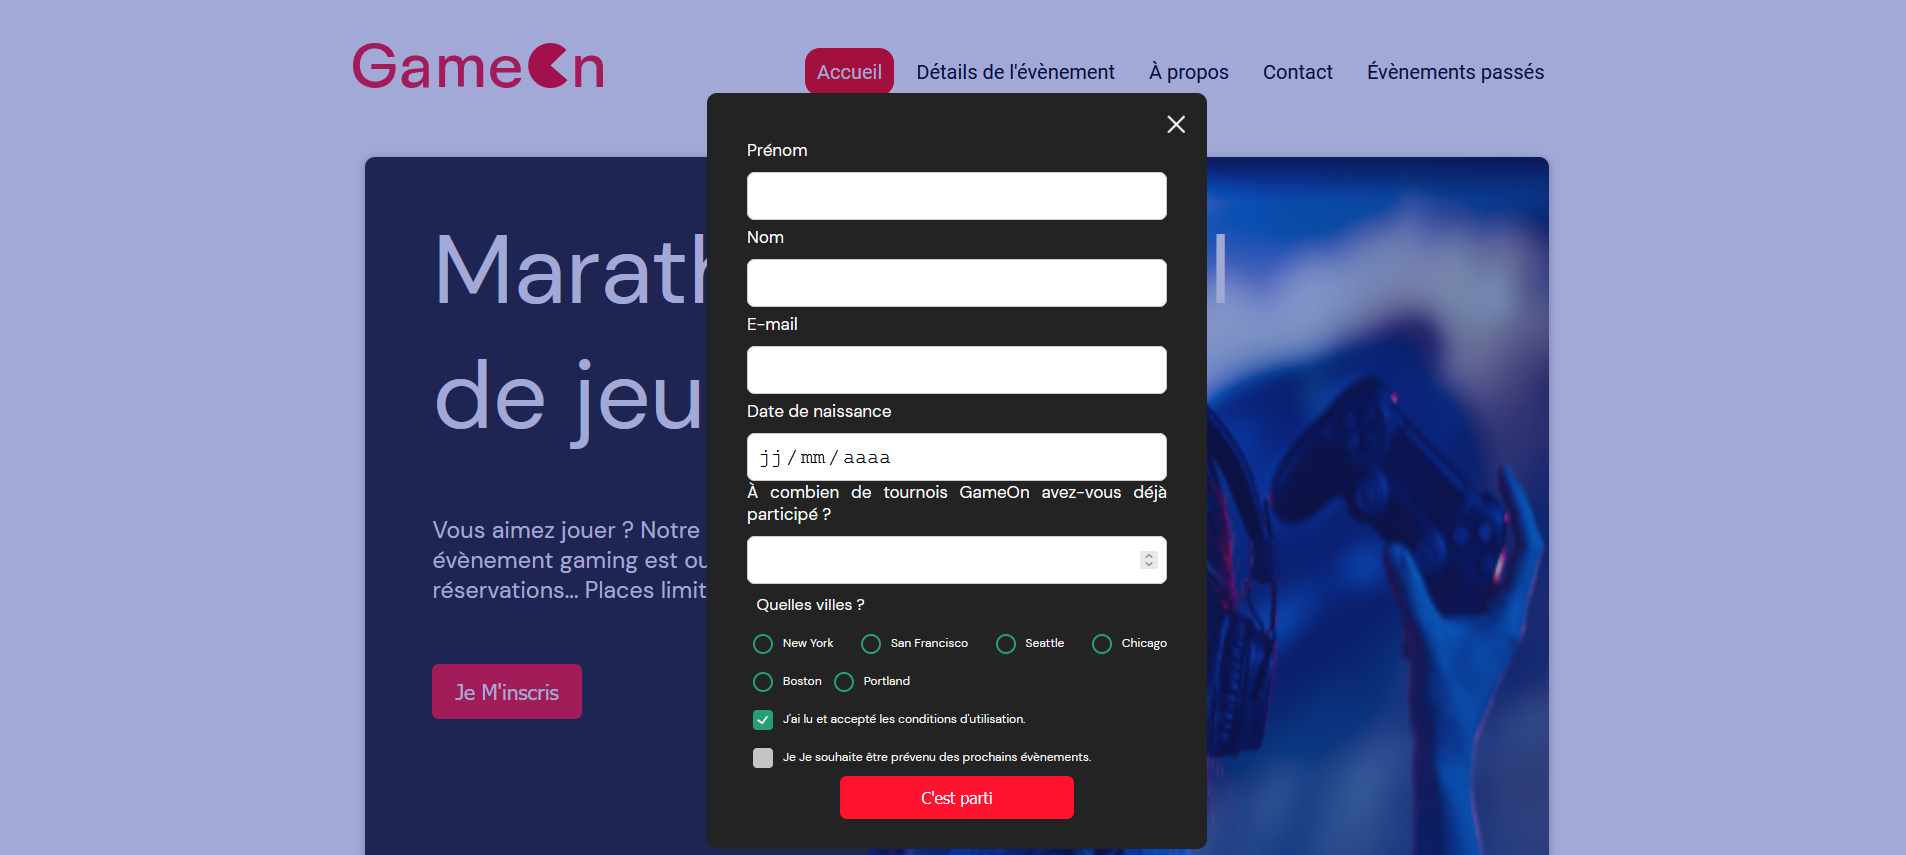
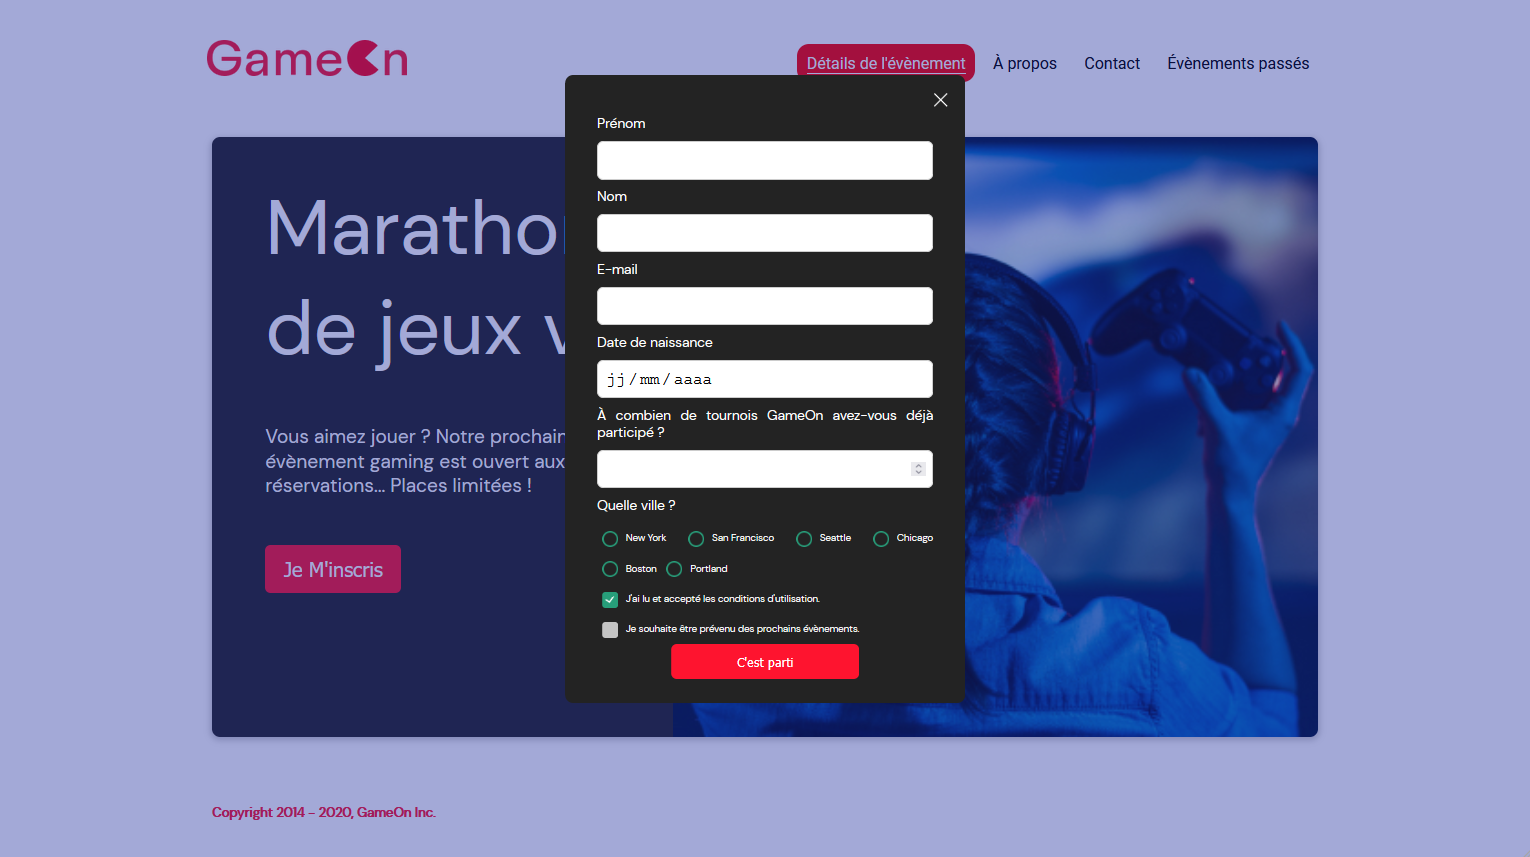
Fix OpenClassrooms-Student-Center#5

diff --git a/css/modal.css b/css/modal.css
@@ -69,9 +69,10 @@ p {
 
 .topnav .icon {
   display: none;
+  color: red;
 }
 
-@media screen and (max-width: 768px) {
+/* @media screen and (max-width: 768px) {
   .topnav.responsive {
     position: relative;
   }
@@ -96,7 +97,7 @@ p {
     float: right;
     display: block;
   }
-}
+} */
 
 /* @media screen and (max-width: 540px) {
   .topnav a {
@@ -484,7 +485,13 @@ footer {
   padding-right: 2vw;
   margin: 0 20px;
 }
-@media screen and (max-width: 800px) {
+@media screen and (max-width: 1000px) {
+  .header-logo img {
+    margin-left: 35px;
+  }
+  .main-navbar .menu {
+    margin-right: 50px;
+  }
   .hero-section {
     display: block;
     box-shadow: unset;
@@ -521,6 +528,50 @@ footer {
     margin-top: 50px;
     text-align: center;
   }
+  .topnav.responsive {
+    position: relative;
+  }
+  .topnav.responsive .icon {
+    position: absolute;
+    right: 0;
+    top: 0;
+  }
+  .topnav.responsive a {
+    float: none;
+    display: block;
+    text-align: left;
+  }
+  .topnav a {
+    display: none;
+  }
+  .topnav a.icon {
+    float: right;
+    display: block;
+  }
+}
+
+@media screen and (max-width: 800px) {
+  .header-logo img {
+    width: 150px;
+    margin-top: 15px;
+    margin-left: 35px;
+  }
+  .hero-content {
+    min-width: 0;
+  }
+  .hero-headline {
+    font-size: 42px;
+  }
+  .hero-text {
+    font-size: 13px;
+  }
+  .bground {
+    background-color: transparent;
+  }
+  .content {
+    margin-top: 80px;
+    max-width: 100vw;
+  }
 }
 
 .formData p {
@@ -545,6 +596,13 @@ footer {
   height: 100%;
   font-size: 36px;
   font-weight: 400;
+}
+
+@media screen and (max-width: 500px) {
+  .main-navbar .menu {
+    width: 85vw;
+    margin-right: 15px;
+  }
 }
 
 @keyframes modalopen {

diff --git a/index.html b/index.html
@@ -16,10 +16,10 @@
         <img alt="logo" src="img/Logo.png">
       </div>
       <div class="main-navbar">
-        <a href="#" class="active">Détails de l'évènement</a>
-        <a href="#">À propos</a>
-        <a href="#">Contact</a>
-        <a href="#">Évènements passés</a>
+        <a href="#" class="active menu">Détails de l'évènement</a>
+        <a href="#" class="menu">À propos</a>
+        <a href="#" class="menu">Contact</a>
+        <a href="#" class="menu">Évènements passés</a>
         <a href="javascript:void(0);" class="icon" onclick="editNav()">
           <i class="fa fa-bars"></i>
         </a>

diff --git a/README.md b/README.md
@@ -1,7 +1,7 @@
 <br>
 <p align="center">
   <a href="https://github.com/Laury-THIALLIER/LauryTHIALLIER_4_31102021">
-    <img src="starterOnly/Logo.png" alt="Logo" width="300" height="auto">
+    <img src="img/Logo.png" alt="Logo" width="300" height="auto">
   </a>
 
   <h3 align="center">GameOn</h3>
@@ -16,12 +16,12 @@
 
 ### VERSION DESKTOP :
   <p align="center">
-    <img src="starterOnly/Desktop.png" alt="Version Desktop">
+    <img src="img/Desktop.png" alt="Version Desktop">
   </p>
 
 ### VERSION MOBILE :
   <p align="center">
-    <img src="starterOnly/Mobile.png" width="450px" height="auto" alt="Version Mobile">
+    <img src="img/Mobile.png" width="450px" height="auto" alt="Version Mobile">
   </p>
 
 
